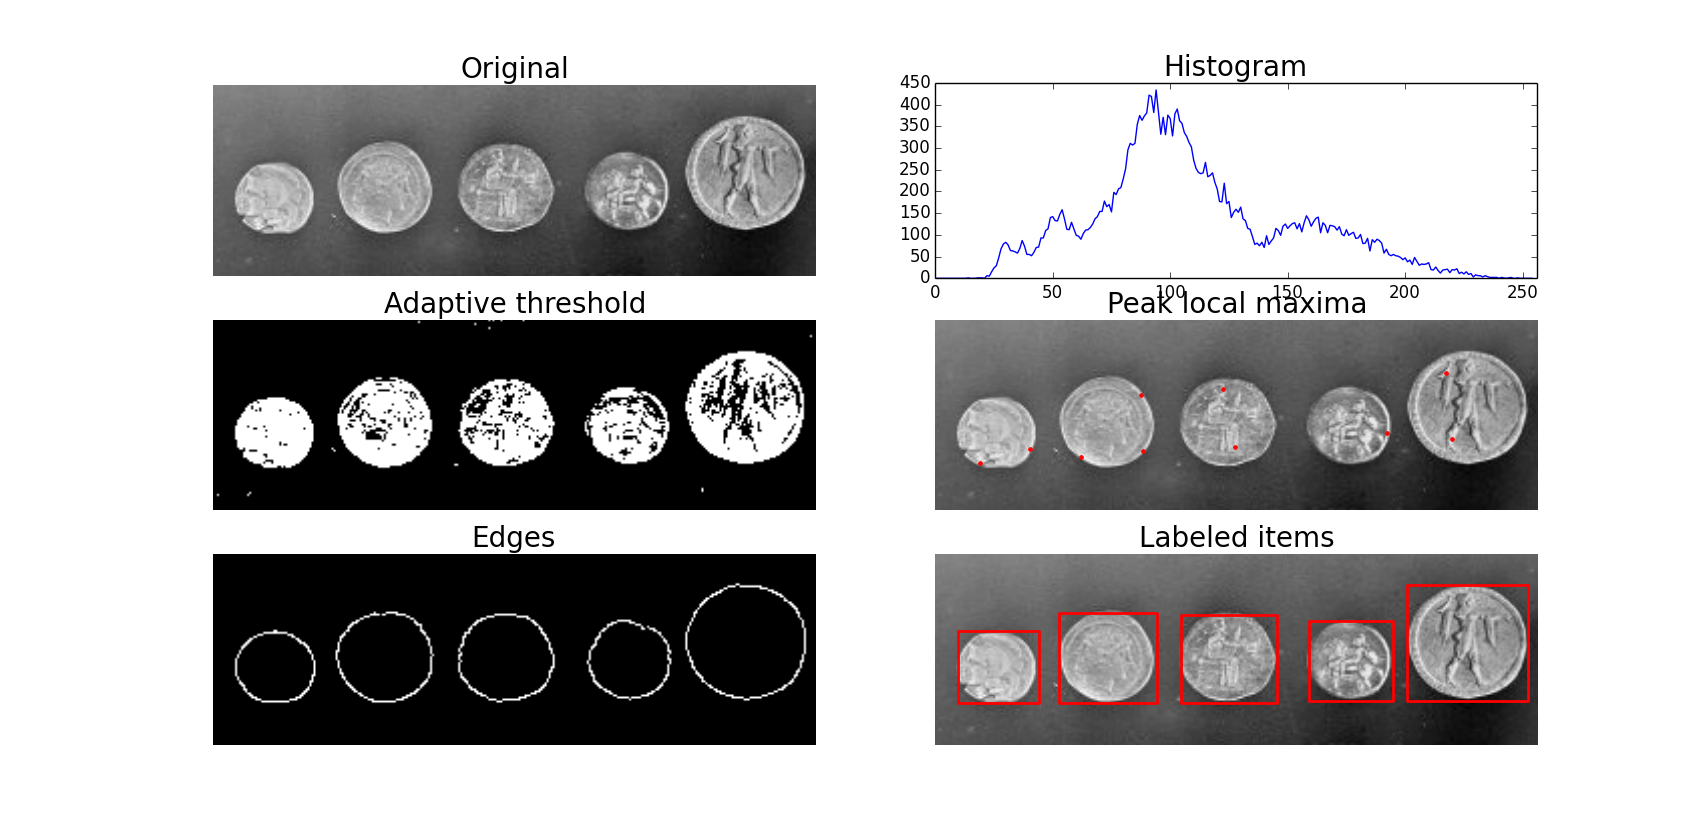
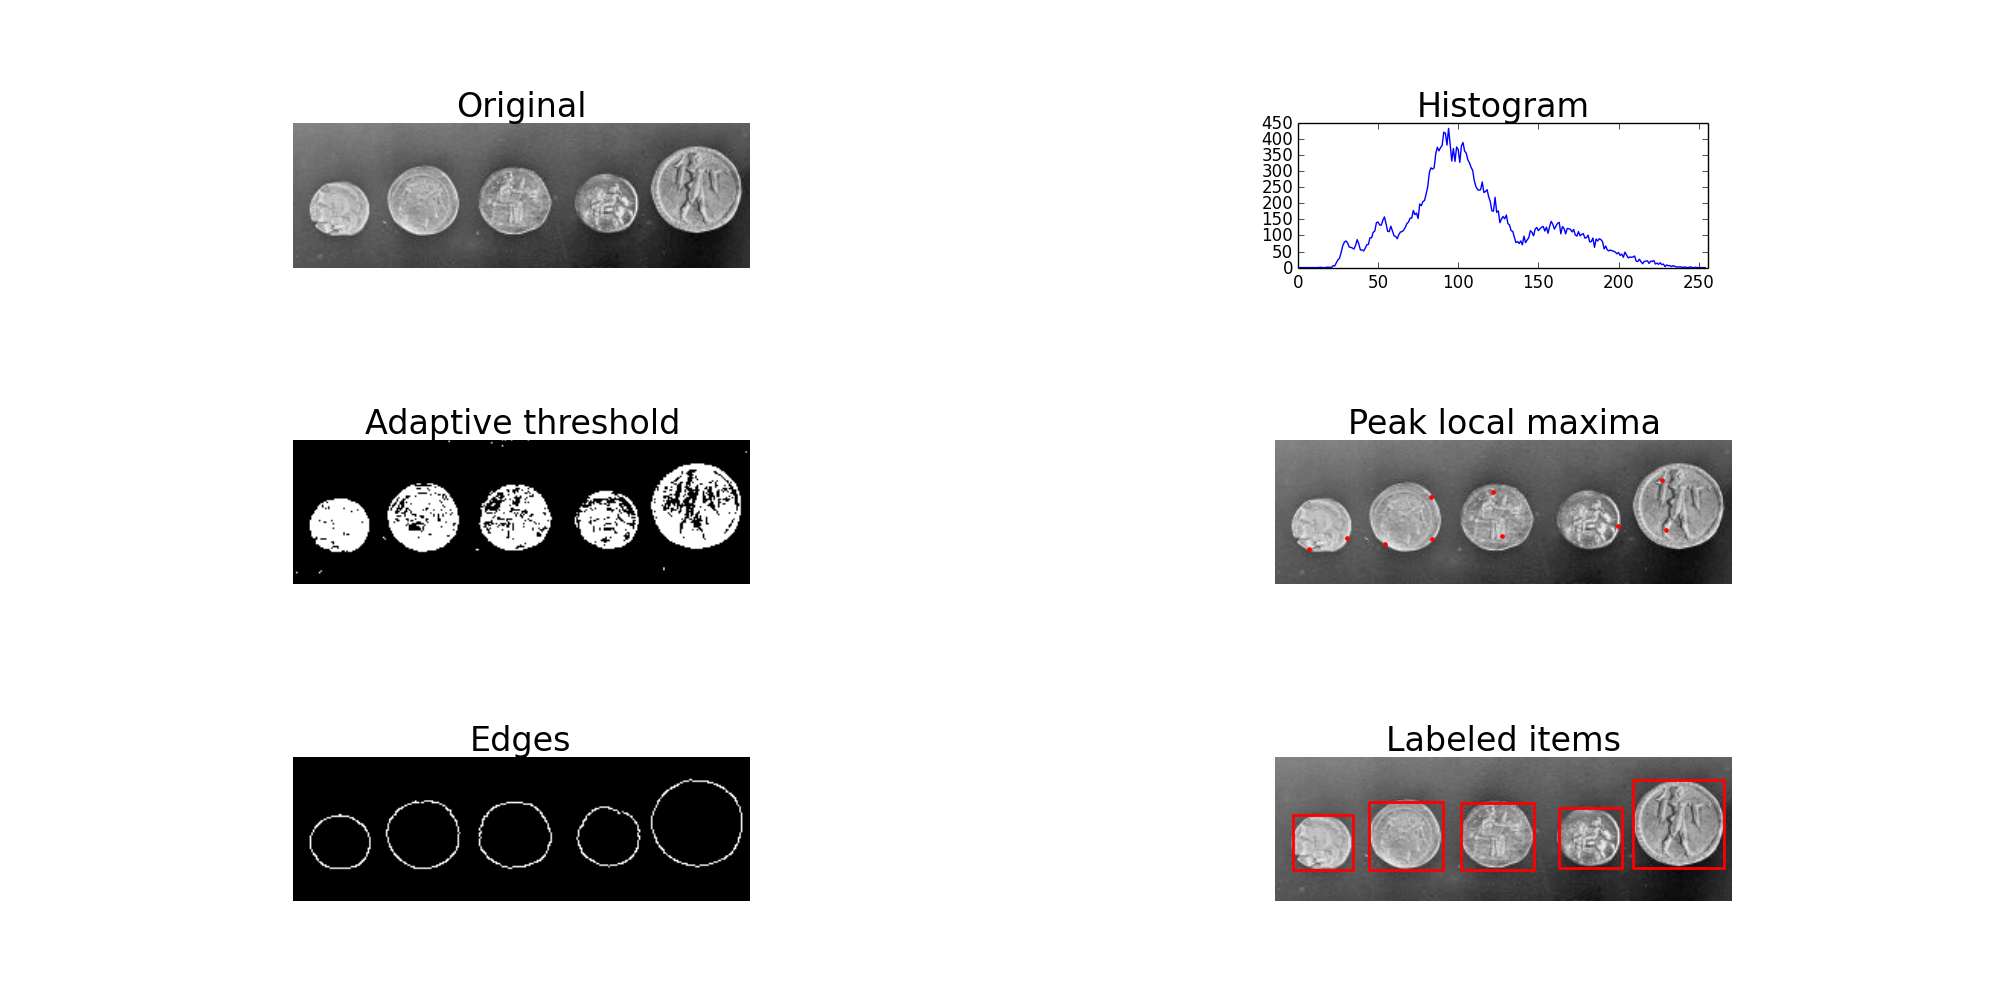
Tony's idea

diff --git a/skimage/figures/getting_started.py b/skimage/figures/getting_started.py
@@ -8,7 +8,7 @@ image = data.coins()[0:95, 70:370]
 
 fig, ax = plt.subplots(ncols=2, nrows=3, figsize=(8, 4))
 ax[0, 0].imshow(image, cmap=plt.cm.gray)
-ax[0, 0].set_title('Original', fontsize=20)
+ax[0, 0].set_title('Original', fontsize=24)
 ax[0, 0].axis('off')
 
 # Histogram.
@@ -16,7 +16,8 @@ values, bins = np.histogram(image, bins=np.arange(256))
 
 ax[0, 1].plot(bins[:-1], values)
 ax[0, 1].set_xlim(xmax=256)
-ax[0, 1].set_title('Histogram', fontsize=20)
+ax[0, 1].set_aspect(.2)
+ax[0, 1].set_title('Histogram', fontsize=24)
 
 # Apply threshold.
 from skimage.filter import threshold_adaptive
@@ -24,7 +25,7 @@ from skimage.filter import threshold_adaptive
 bw = threshold_adaptive(image, 95, offset=-15)
 
 ax[1, 0].imshow(bw, cmap=plt.cm.gray)
-ax[1, 0].set_title('Adaptive threshold', fontsize=20)
+ax[1, 0].set_title('Adaptive threshold', fontsize=24)
 ax[1, 0].axis('off')
 
 # Find maxima.
@@ -35,7 +36,8 @@ coordinates = peak_local_max(image, min_distance=20)
 ax[1, 1].imshow(image, cmap=plt.cm.gray)
 ax[1, 1].autoscale(False)
 ax[1, 1].plot(coordinates[:, 1], coordinates[:, 0], 'r.')
-ax[1, 1].set_title('Peak local maxima', fontsize=20)
+ax[1, 1].set_title('Peak local maxima', fontsize=24)
+ax[1, 1].axis('off')
 ax[1, 1].axis('off')
 
 # Detect edges.
@@ -44,7 +46,7 @@ from skimage import filter
 edges = filter.canny(image, sigma=3, low_threshold=10, high_threshold=80)
 
 ax[2, 0].imshow(edges, cmap=plt.cm.gray)
-ax[2, 0].set_title('Edges', fontsize=20)
+ax[2, 0].set_title('Edges', fontsize=24)
 ax[2, 0].axis('off')
 
 # Label image regions.
@@ -55,7 +57,7 @@ from skimage.morphology import label
 label_image = label(edges)
 
 ax[2, 1].imshow(image, cmap=plt.cm.gray)
-ax[2, 1].set_title('Labeled items', fontsize=20)
+ax[2, 1].set_title('Labeled items', fontsize=24)
 ax[2, 1].axis('off')
 
 for region in regionprops(label_image):
@@ -65,4 +67,5 @@ for region in regionprops(label_image):
                               fill=False, edgecolor='red', linewidth=2)
     ax[2, 1].add_patch(rect)
 
+plt.tight_layout()
 plt.show()
